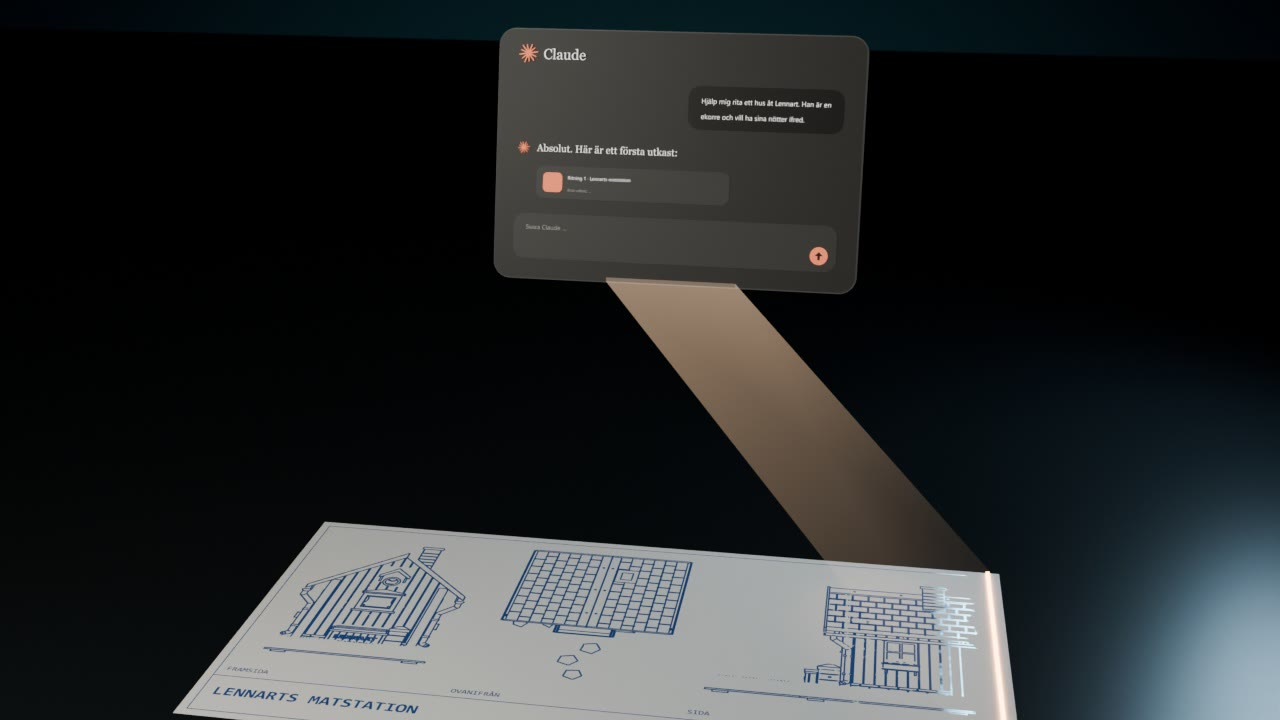
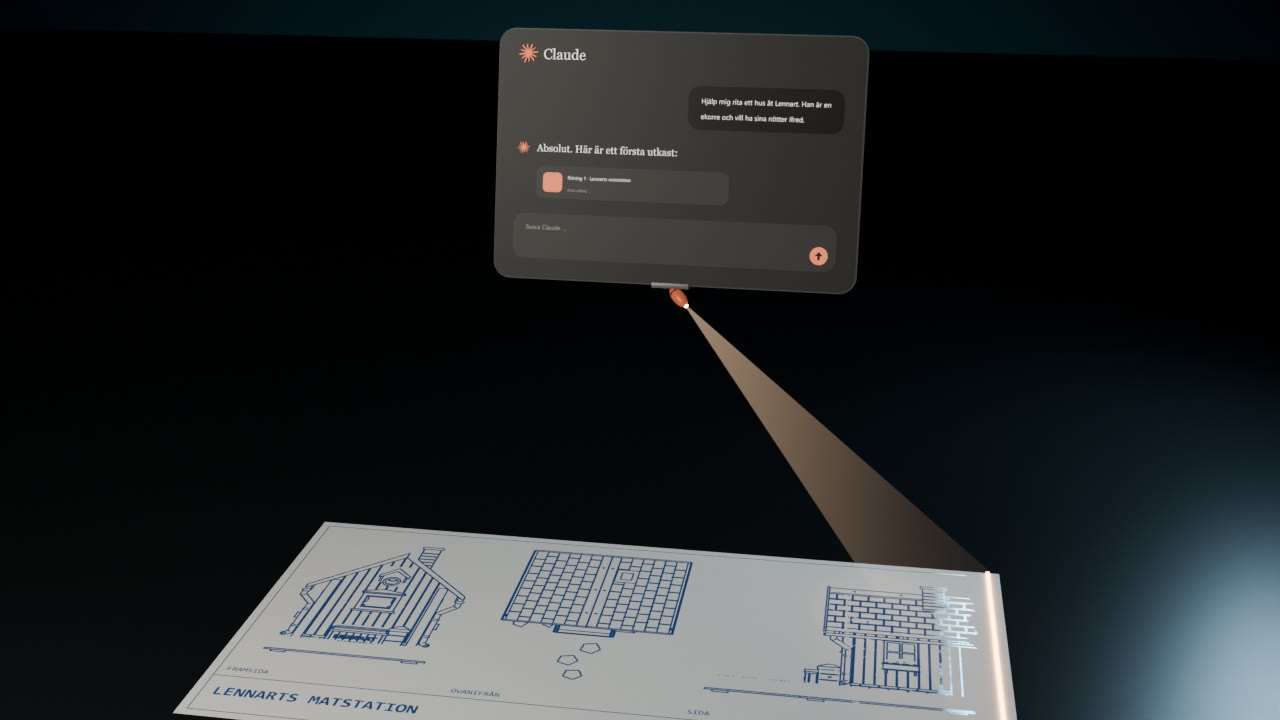
Filmen: orange munstycke projicerar ritningen i designen
Ett litet munstycke i Claudes orange fälls ut ur chattfönstrets
underkant, vrider sig efter svepet och skickar ljuset ur spetsen.
Fyra former finns att välja mellan (LENNART_MUNSTYCKE_VARIANT),
kapseln är vald. Del 3 v6, klipp 3.1-3.2 och hela filmen ombyggda.

Changed region(s): [[0.4688, 0.3667, 0.7188, 0.7944], [0.7188, 0.7028, 0.75, 0.7639]]

diff --git a/trailer/storyboard/storyboard.html b/trailer/storyboard/storyboard.html
@@ -134,7 +134,7 @@ td:first-child { color: var(--fg); white-space: nowrap; font-family: var(--mono)
 <div class="wrap">
 
 <header class="top">
-  <div class="eyebrow">Storyboard v17 · byggklippen i monteringen</div>
+  <div class="eyebrow">Storyboard v18 · munstycket i designen</div>
   <h1>Projekt <span>Lennart</span></h1>
   <p class="lead">En helt orimlig mängd teknik, redovisad med fullt allvar, för att en ekorre ska få äta sin nöt i fred.</p>
   <div class="facts">
@@ -406,7 +406,7 @@ const ACTS = [
   ['2.6','1:19','8 s','Ja','n6','cg','Andra utfallet. Fatet som skatan tömde fylls på igen, men bara för Lennart.','Lennart vid fatet. Blixt, bildkortet går upp, skylten visar VERIFIERAR och slår om till grönt: en bock och EKORRE. En grön puls går ner till fatet, och nio hasselnötter poppar upp ur det, en i taget. Lennart hoppar fram.','Helbilden, sedan en inåkning mot fatet.','Grönt sken från molnet.','Pulsen landar, nötterna poppar upp i en liten kaskad, sedan två små hopp fram.','Kameran lyfter och tittar upp förbi molnet, ut i mörkret. 3.1 fortsätter rörelsen och tittar ner mot Claude-fönstret.','"Är svaret ja finns det helt plötsligt mat."','Två stigande toner. Nötterna som poppar, en ton per nöt.','3D'],
  ]],
  ['3 · Designen', '1:27–1:47', 'Ny version, v3: Claude-fönstret är omgjort.', [
-  ['3.1','1:27','8 s','Ritningen på pappret','d1','cg','Visa var designen kom ifrån.','Ett vitt papper ligger på den mörka ytan. Ovanför svävar ett chattfönster märkt Claude. Frågan skrivs in: Hjälp mig rita ett hus åt Lennart. Han är en ekorre och vill ha sina nötter ifred. Claude svarar: Absolut. Här är ett första utkast. Fönstret lyser ner på pappret som en projektor och ritar upp stugan i tre vyer: framsida, ovanifrån och sida.','Börjar nära fönstret så att frågan går att läsa, backar sedan ut och visar pappret under.','Fönstret är scenens ljuskälla. Ljuskäglan syns svagt i mörkret.','Texten skrivs, ett svar börjar komma, linjerna ritas ut på pappret i samma takt.','Linjerna på pappret börjar lysa.','"Så jag satte mig med Claude och började bolla lite. Och det ena ledde till det andra."','Tangenter. Ett mjukt surr från projektionen. Penna mot papper.','3D. Ritningen är gjord av modellens egna linjer.'],
+  ['3.1','1:27','8 s','Ritningen på pappret','d1','cg','Visa var designen kom ifrån.','Ett vitt papper ligger på den mörka ytan. Ovanför svävar ett chattfönster märkt Claude. Frågan skrivs in: Hjälp mig rita ett hus åt Lennart. Han är en ekorre och vill ha sina nötter ifred. Claude svarar: Absolut. Här är ett första utkast. Ett litet orange munstycke fälls ut ur fönstrets underkant. Ljuset kommer ur spetsen, och munstycket vrider sig efter linjen som sveper över pappret och ritar upp stugan i tre vyer: framsida, ovanifrån och sida. När ritningen är klar fälls munstycket in igen.','Börjar nära fönstret så att frågan går att läsa, backar sedan ut och visar pappret under.','Fönstret är scenens ljuskälla. Ljuskäglan från munstycket syns svagt i mörkret.','Texten skrivs, ett svar börjar komma, linjerna ritas ut på pappret i samma takt.','Linjerna på pappret börjar lysa.','"Så jag satte mig med Claude och började bolla lite. Och det ena ledde till det andra."','Tangenter. Ett mjukt surr från projektionen. Penna mot papper.','3D. Ritningen är gjord av modellens egna linjer.'],
   ['3.2','1:35','12 s','Huset reser sig ur ritningen','d2','cg','Presentera den färdiga designen.','Fönstret försvinner uppåt. Huset reser sig ur vyn ovanifrån mitt på ritningen, först i grå lera och sedan i färg: röd stuga med vita knutar. Måtten visas. Skärmen tänds.','Kameran sjunker från ovanifrån ner till trekvartsvy medan huset reser sig.','Full studioljussättning när färgen är på plats.','Huset växer uppåt ur pappret. Färgen stiger, måtten tänds och släcks.','Snabb panorering åt höger med rörelseoskärpa. Klippet göms i oskärpan och landar på den blå ytan i 4.1.','"Först en skiss, sen en ritning, och sen hade vi plötsligt en hel 3D-modell, redo för utskrift. En liten röd stuga med vita knutar, som jag har Claude att tacka för."','En stigande ton. Ett klingande ljud när skärmen tänds.','3D från GLB'],
  ]],
  ['4 · Inköpen', '1:47–2:03', 'Ny version, v4: blå bakgrund, en del per ord i din inspelning.', [
@@ -435,7 +435,7 @@ const FILM = {
  "0.1": "Ny version, v5: skärmen har synliga pixlar.", "0.2": "Ur öppning v2, godkänd bild. Din provinspelning som röst.", "0.3": "Ny version, v5: magasinet fullt, tilt ner i slutet.", "0.4": "Ny version, v5: övergångar in och ut.", "0.5": "Ny version, v5: pixlar, punkter på pipen, inåkning i pixlarna.", "0.6": "Ny version: titeln i skärmens pixelrutnät.",
  "1.1": "Ur del 1 v1, klippt efter din inspelning.", "1.2": "Ur del 1 v1, klippt efter din inspelning.", "1.3": "Ur del 1 v3. Namnskylten kommer tidigare och ligger kvar in i nästa klipp.", "1.4": "Ur del 1. Ny övergång i slutet: snabb panorering åt höger, dit Lennart tittar.",
  "2.1": "Ny version, v7: landar ur panoreringen från 1.4.", "2.2": "Ur v3, oförändrad.", "2.3": "Ur v3, oförändrad.", "2.4": "Ur v3, oförändrad.", "2.5": "Ny version, v5: nej-signalen slår ner i fatet, som snurrar ut med ett porslinsklirr.", "2.6": "Ny version, v6: nötterna vilar, kameran lyfter i slutet.",
- "6.1": "Ny version, v2: byggklippen i hörnen, i takt med musiken (platshållare).", "6.2": "Ny version, v2: byggklippen går när kameran åker nära (platshållare).", "6.3": "Första renderingen, v1.", "3.1": "Ny version, v5: börjar uppifrån mörkret.", "3.2": "Ny version, v4: snabb panorering i slutet.",
+ "6.1": "Ny version, v2: byggklippen i hörnen, i takt med musiken (platshållare).", "6.2": "Ny version, v2: byggklippen går när kameran åker nära (platshållare).", "6.3": "Första renderingen, v1.", "3.1": "Ny version, v6: ett orange munstycke under fönstret projicerar ritningen.", "3.2": "Ny version, v4: snabb panorering i slutet.",
  "4.1": "Ny version, v6: konturer och allt det andra som köptes längs kanterna.", "4.2": "Ny version, v6: fem filamentfärger, in i den röda rullens nav i slutet.", "5.2": "Platshållare: utskriftsväggen med dina tre stillbilder.", "5.3": "Platshållare: utskriftsväggen med dina tre stillbilder."
 };
 // Scener som väntar på riktigt material (timelapse-klipp, film av huset). De får vattenstämpeln VÄNTAR PÅ MATERIAL här och i filmen.

diff --git a/trailer/film/akt_design.py b/trailer/film/akt_design.py
@@ -176,6 +176,50 @@ bme = bpy.data.meshes.new('fana'); bme.from_pydata(src + dst, [], [(i, (i + 1) %
 bpy.ops.mesh.primitive_cube_add(size=1); SCAN = bpy.context.active_object; SCAN.scale = (0.005, PH, 0.0006); SCAN_M = lys('svep', (1.0, 0.45, 0.2), 9.0); SCAN.data.materials.append(SCAN_M); SCAN.visible_shadow = False
 sd = bpy.data.lights.new('proj', 'SPOT'); sd.spot_size = math.radians(40); sd.spot_blend = 0.8; sd.color = (1.0, 0.6, 0.38); sd.shadow_soft_size = 0.02; SPOT = link(bpy.data.objects.new('proj', sd)); SPOT.location = WM @ Vector((0, -0.03, -WH / 2))
 SPOT.rotation_euler = (PC - SPOT.location).to_track_quat('-Z', 'Y').to_euler()
+# munstycket: ett litet orange munstycke fälls ut ur chattrutans underkant strax innan projektionen och vrider sig efter svepet, som ett skrivarhuvud. Ljuset kommer ur spetsen.
+NOZ_ON = os.environ.get('LENNART_MUNSTYCKE', '1') == '1'
+# Varianter (LENNART_MUNSTYCKE_VARIANT): A kon, B lins, C skrivarhuvud, D kapsel (vald). A-C är gråa, D har Claudes orange.
+VAR = os.environ.get('LENNART_MUNSTYCKE_VARIANT', 'D')
+NM = mat('munstycke', (0.3, 0.3, 0.31), 0.38); P_(NM).inputs['Metallic'].default_value = 0.3                  # grå, matt metall
+NR = mat('munstycke_led', (0.13, 0.13, 0.135), 0.45); P_(NR).inputs['Metallic'].default_value = 0.2           # mörkare grå led
+NL_ = mat('munstycke_ljus', (0.55, 0.55, 0.56), 0.35); P_(NL_).inputs['Metallic'].default_value = 0.2        # ljusgrå
+NOR = mat('munstycke_orange', C_OR, 0.32, 0.3, C_OR, 0.35)                                                   # Claudes orange, lyser svagt som knappen
+NOR2 = mat('munstycke_orange_mork', tuple(c * 0.45 for c in C_OR), 0.4)
+G_NOZ = 1.6   # G_NOZ: hela munstyckets storlek
+TIPM = lys('munstycke_spets', (1.0, 0.55, 0.3), 0.0)
+def del_(o, m, parent, loc, rot=(0, 0, 0)): o.data.materials.append(m); o.parent = parent; o.location = loc; o.rotation_euler = rot; [setattr(p, 'use_smooth', True) for p in o.data.polygons]; return o
+FASTE = link(bpy.data.objects.new('munstycke_faste', None)); child(FASTE, 0, -WH / 2 + 0.002, 0)          # fästet sitter i rutans underkant
+bpy.ops.mesh.primitive_cube_add(size=1); pl = bpy.context.active_object; pl.scale = (0.036, 0.016, 0.005); bv = pl.modifiers.new('b', 'BEVEL'); bv.width = 0.002; bv.segments = 4; del_(pl, NM, FASTE, (0, 0, -0.0025)); WOBJ.append(pl)
+NOZ = link(bpy.data.objects.new('munstycke', None)); NOZ.parent = FASTE; NOZ.location = (0, 0, -0.005); WOBJ.append(NOZ)   # leden: allt under den vrids mot svepet
+def bit(o, m, loc, rot=(0, 0, 0)): WOBJ.append(del_(o, m, NOZ, loc, rot)); return o
+def ny(): return bpy.context.active_object
+if VAR == 'A':     # kon: en enkel avsmalnande kon under en kula
+    NL = 0.032
+    bpy.ops.mesh.primitive_uv_sphere_add(segments=32, ring_count=16, radius=0.006); bit(ny(), NR, (0, 0, 0))
+    bpy.ops.mesh.primitive_cone_add(vertices=48, radius1=0.0075, radius2=0.0016, depth=0.028); bit(ny(), NM, (0, 0, -0.017), (math.pi, 0, 0))
+    bpy.ops.mesh.primitive_cylinder_add(vertices=48, radius=0.0078, depth=0.0016); bit(ny(), NL_, (0, 0, -0.0035))
+    bpy.ops.mesh.primitive_cylinder_add(vertices=32, radius=0.0017, depth=0.002); TIP = bit(ny(), TIPM, (0, 0, -NL + 0.0012))
+elif VAR == 'B':   # lins: en kort tub med en lysande lins i änden, som en liten projektor
+    NL = 0.024
+    bpy.ops.mesh.primitive_uv_sphere_add(segments=32, ring_count=16, radius=0.0065); bit(ny(), NR, (0, 0, 0))
+    bpy.ops.mesh.primitive_cylinder_add(vertices=48, radius=0.0082, depth=0.018); bit(ny(), NM, (0, 0, -0.012))
+    bpy.ops.mesh.primitive_torus_add(major_radius=0.0078, minor_radius=0.0016, major_segments=48, minor_segments=12); bit(ny(), NL_, (0, 0, -0.0215))
+    bpy.ops.mesh.primitive_cylinder_add(vertices=48, radius=0.0062, depth=0.0012); TIP = bit(ny(), TIPM, (0, 0, -NL + 0.0016))
+elif VAR == 'C':   # skrivarhuvud: ett litet rundat block med en kort spets
+    NL = 0.03
+    bpy.ops.mesh.primitive_cylinder_add(vertices=32, radius=0.0045, depth=0.02, rotation=(0, math.pi / 2, 0)); bit(ny(), NR, (0, 0, 0), (0, math.pi / 2, 0))
+    bpy.ops.mesh.primitive_cube_add(size=1); o = ny(); o.scale = (0.018, 0.012, 0.016); m_ = o.modifiers.new('b', 'BEVEL'); m_.width = 0.003; m_.segments = 5; bit(o, NM, (0, 0, -0.011))
+    bpy.ops.mesh.primitive_cube_add(size=1); o = ny(); o.scale = (0.0185, 0.0125, 0.0018); m_ = o.modifiers.new('b', 'BEVEL'); m_.width = 0.0008; m_.segments = 3; bit(o, NL_, (0, 0, -0.0135))
+    bpy.ops.mesh.primitive_cone_add(vertices=48, radius1=0.0042, radius2=0.0014, depth=0.0095); bit(ny(), NL_, (0, 0, -0.0238), (math.pi, 0, 0))
+    bpy.ops.mesh.primitive_cylinder_add(vertices=32, radius=0.0015, depth=0.002); TIP = bit(ny(), TIPM, (0, 0, -NL + 0.0012))
+else:              # kapsel: en avlång, mjuk droppe utan synlig led
+    NL = 0.027
+    bpy.ops.mesh.primitive_uv_sphere_add(segments=48, ring_count=24, radius=0.0062); o = ny(); o.scale = (1, 1, 2.1); bit(o, NOR, (0, 0, -0.0135))
+    bpy.ops.mesh.primitive_cylinder_add(vertices=48, radius=0.0064, depth=0.0012); bit(ny(), NOR2, (0, 0, -0.008))
+    bpy.ops.mesh.primitive_cylinder_add(vertices=32, radius=0.0019, depth=0.0016); TIP = bit(ny(), TIPM, (0, 0, -NL + 0.0007))
+for o in [pl, NOZ, FASTE] + [c for c in NOZ.children]: o.visible_shadow = True
+if not NOZ_ON:
+    for o in [FASTE, pl, NOZ] + list(NOZ.children): o.hide_render = True; WOBJ.remove(o) if o in WOBJ else None
 
 bpy.ops.mesh.primitive_plane_add(size=10, location=(0, 0, GROUND)); bpy.context.active_object.data.materials.append(mat('golv', (0.016, 0.02, 0.022), 0.34))
 def light(loc, target, power, size, col):
@@ -208,6 +252,15 @@ def state(t):
     for i, (dx, dy) in enumerate([(-1, -1), (1, -1), (1, 1), (-1, 1)]): bme.vertices[4 + i].co = (sx + dx * 0.004, PC.y + dy * PH / 2, PC.z + 0.002)
     bme.update(); SCAN.location = (sx, PC.y, PC.z + 0.0022)
     proj = sm(t, 5.9, 6.2) * (1 - sm(t, 9.3, 9.6)); PRJ.outputs[0].default_value = proj; BEAM.hide_render = proj < 0.01; SCAN.hide_render = proj < 0.01; sd.energy = 2.5 * proj
+    if NOZ_ON:   # munstycket fälls ut 5,3-5,9 (med en liten översvängning), siktar på svepet och fälls in igen 9,4-9,9. Fanan och spotten utgår från spetsen.
+        u = min(1.0, max(0.0, (t - 5.3) / 0.6)); ut = (1 + 2.2 * (u - 1) ** 3 + 1.2 * (u - 1) ** 2 if u > 0 else 0.0) * (1 - sm(t, 9.4, 9.9))
+        FASTE.scale = (G_NOZ, G_NOZ, G_NOZ * max(ut, 0.001)); FASTE.hide_render = ut < 0.01
+        for o in [pl] + list(NOZ.children): o.hide_render = ut < 0.01 or away > 0.99
+        bpy.context.view_layer.update(); j = NOZ.matrix_world.translation; d = (Vector((sx, PC.y, PC.z)) - j).normalized() if proj > 0.001 else (Vector((PC.x, PC.y, PC.z)) - j).normalized()
+        dl = (NOZ.parent.matrix_world.to_3x3().normalized().inverted() @ d); NOZ.rotation_euler = dl.to_track_quat('-Z', 'X').to_euler()
+        bpy.context.view_layer.update(); tip = NOZ.matrix_world @ Vector((0, 0, -NL)); P_(TIPM).inputs['Emission Strength'].default_value = 0.6 * ut + 14 * proj
+        for i, (dx, dy) in enumerate([(-1, -1), (1, -1), (1, 1), (-1, 1)]): bme.vertices[i].co = tip + Vector((dx * 0.0015, dy * 0.0015, 0))
+        bme.update(); SPOT.location = tip
     SPOT.rotation_euler = (Vector((sx, PC.y, PC.z)) - SPOT.location).to_track_quat('-Z', 'Y').to_euler()
     DRAW.outputs[0].default_value = -0.02 + 1.15 * sm(t, 6.0, 9.4) ** 0.9 if t > 6.0 else -0.1; GLOW.outputs[0].default_value = 0.5 * sm(t, 9.2, 9.9) * (1 - sm(t, 11.5, 13.5))
     KEY.energy = 46 * (0.45 + 0.55 * sm(t, 9.6, 12.0)); RIM.energy = 22 * (0.5 + 0.5 * sm(t, 9.6, 12.0))

diff --git a/trailer/film/LAGE.md b/trailer/film/LAGE.md
@@ -20,7 +20,7 @@ Senast uppdaterad 2026-11-16. Skriven för att arbetet ska kunna fortsätta på 
 | 0 Öppningen | Skärmen, gluggen, nötens väg, 48 delar, VERIFIERAR, titeln | Klar. Fullt nötmagasin, pixlar på skärmen, punkterna tänds på pipen. |
 | 1 Lennart | Riktiga mobilklipp | Klar. Klipp 1.4 slutar med en snabb panorering åt höger. |
 | 2 Problemet och planen | Fat, skata, kamera i sladd, moln, ja och nej | Klar. Landar ur panoreringen från 1.4, fatet snurrar vid nej, nötterna vilar på riktigt. |
-| 3 Designen | Claude-fönstret ritar huset, huset reser sig | Klar |
+| 3 Designen | Claude-fönstret ritar huset, huset reser sig | Klar. Ett litet orange munstycke fälls ut under fönstret och projicerar ritningen. |
 | 4 Inköpen | Komponenterna på blå yta, filamentet | Klar. Allt annat som köptes landar längs kanterna, konturer visar var huvuddelarna ska ligga, fem filamentfärger. |
 | 5 Utskriften | Lager för lager (5.1) och utskriftsväggen (5.2–5.3) | 5.1 är en stillbild ur 3D. Väggen visar platshållare tills de riktiga timelapse-klippen finns. |
 | 6 Monteringen | Sprängskiss, delarna hittar hem | Fyra byggklipp svävar bakom huset i 6.1–6.2, än så länge platshållare. Elektroniken från inköpen saknas. |
@@ -66,5 +66,6 @@ Scener som väntar på riktigt material står i listan `VANTAR` i `storyboard/st
 - **Panoreringen 1.4 → 2.1:** `akt_plan.py` vrider kameran åt vänster i början av 2.1 (`PAN_GRAD`, `PAN_TID`) och `verktyg/panorering_14.py` lägger på rörelseoskärpan och bygger de sista åtta rutorna i 1.4. Ändras början av 2.1 ska skriptet köras om.
 - **Inköpen:** sakerna i kanterna av 4.1 och de fem filamentfärgerna kommer från kvittot och Marcus egen lista. Alla delar är generiska modeller. Panoreringen in från 3.2 läggs på de första sju rutorna med `verktyg/panorering_41.py` efter renderingen.
 - **Byggklippen i monteringen:** `verktyg/byggklipp_6.py` lägger fyra klipp i vita ramar bakom huset i 6.1–6.2. De poppar upp och krymper bort på musikens slag (ca 99 slag/min) och är borta när kameran åker nära, ca 9 s in. Klippen görs lite mjuka, mörkare, kallare och mindre mättade (`KLIPP_VF`), så att huset är skarpast i bilden. Huset hålls överst med en mask som `akt_montering.py` renderar i maskläge (`LENNART_MASK=1`, bara alfa, går snabbt). Klippen läses från en mapp med `1.mp4`–`4.mp4`, utan ljud. När de riktiga klippen finns räcker det att köra skriptet igen, utan att rendera om huset. Platshållarna ligger lokalt i `byggklipp/platshallare/` och committas inte.
+- **Munstycket i designen:** `akt_design.py` fäller ut ett litet munstycke i Claudes orange ur chattfönstrets underkant ca 5,3 s in. Det vrider sig efter linjen som sveper över pappret, ljuset kommer ur spetsen, och det fälls in igen 9,4–9,9 s. Formen väljs med `LENNART_MUNSTYCKE_VARIANT` (A kon, B lins, C skrivarhuvud, D kapsel, D är vald) och `LENNART_MUNSTYCKE=0` stänger av det.
 - **Nötterna:** platserna räknas fram mot modellens riktiga form (`verktyg/notmagasin.py`, `verktyg/notfat.py`).
-- **Bildrutor:** när bara en del av en scen ändras renderas bara de bildrutorna om. Bildrutorna finns inte i repot, så ta fram de övriga ur scenens mp4 med `ffmpeg -i "Lennart - del 3 designen v5.mp4" ut/%04d.jpg` först.
+- **Bildrutor:** när bara en del av en scen ändras renderas bara de bildrutorna om. Bildrutorna finns inte i repot, så ta fram de övriga ur scenens mp4 med `ffmpeg -i "Lennart - del 3 designen v6.mp4" ut/%04d.jpg` först.

diff --git a/TOKENS.md b/TOKENS.md
@@ -19,7 +19,7 @@ Metoden anger hur siffran togs fram: *exakt* (avläst i verktyget) eller *uppska
 | 2026-11-15 (kväll, livebild) | Publik livebild på lennart.cam (bilder bara när någon tittar), adminvy bakom inloggning med inställningar och av-knapp, Pi-appen skickar 640 × 360 i 2 bilder/s. Testat lokalt och mot riktiga lennart.cam. | ca 5–10 miljoner in, ca 0,08 miljoner ut [osäkert] | Uppskattat: ca 40 modellanrop × 130 000–240 000 tokens kontext. Ut uppskattat ur mängden skriven kod och text. | 0 | Ingen lokal modell användes |
 | 2026-11-15 (kväll, admin) | Felsökning av inloggningen i adminvyn: tolerans för mellanslag och citattecken, fingeravtryck i loggen, test i riktig webbläsare, besökarens adress bakom Cloudflare | ca 3–6 miljoner in, ca 0,03 miljoner ut [osäkert] | Uppskattat: ca 20 modellanrop × 150 000–260 000 tokens kontext | 0 | Ingen lokal modell användes |
 | 2026-11-15 (kväll, rotation och servon) | Kamerans rotation och servostyrning i adminvyn: kommandon och inställningar via Pi:ns väntande anrop, egen drivrutin för PCA9685, kopplingsguide för servona, rättning av dolda bilder i stilmallen. Testat med låtsashårdvara och i Chromium. | ca 6–12 miljoner in, ca 0,1 miljoner ut [osäkert] | Uppskattat: ca 40 modellanrop × 160 000–280 000 tokens kontext. Ut uppskattat ur mängden skriven kod och text. | 0 | Ingen lokal modell användes |
-| 2026-11-14 – 2026-11-16 | Trailern, Claude Code i Claude-appen på Windows (lokal session): storyboard, alla 3D-scener i Blender, Marcus röst bearbetad och lagd mot klippen, musik och ljudeffekter, övergångar, flytt av filmprojektet till repot, övergången från Lennart till planen, vattenstämpeln, inköpen, servonas tajming och byggklippen i monteringen | ca 287,9 miljoner in, varav 285,3 miljoner cacheläsning och 2,6 miljoner cacheskrivning, och 1,15 miljoner ut | Exakt ur sessionsloggen fram till 2026-11-16 17.05 UTC: summan av `usage`-fälten för 929 modellanrop (Claude Fable 5.2 och Claude Opus 5.5), räknat en gång per svar. Arbetet efter den tidpunkten ingår inte. | ej räknat | Whisper medium kördes lokalt för att skriva ut rösten (ca 2,5 minuter ljud). Whisper räknar inte tokens på samma sätt, och antalet loggades inte. |
+| 2026-11-14 – 2026-11-16 | Trailern, Claude Code i Claude-appen på Windows (lokal session): storyboard, alla 3D-scener i Blender, Marcus röst bearbetad och lagd mot klippen, musik och ljudeffekter, övergångar, flytt av filmprojektet till repot, övergången från Lennart till planen, vattenstämpeln, inköpen, servonas tajming, byggklippen i monteringen och munstycket i designen | ca 299,8 miljoner in, varav 297,0 miljoner cacheläsning och 2,8 miljoner cacheskrivning, och 1,19 miljoner ut | Exakt ur sessionsloggen fram till 2026-11-16 19.22 UTC: summan av `usage`-fälten för 994 modellanrop (Claude Fable 5.2 och Claude Opus 5.5), räknat en gång per svar. Arbetet efter den tidpunkten ingår inte. | ej räknat | Whisper medium kördes lokalt för att skriva ut rösten (ca 2,5 minuter ljud). Whisper räknar inte tokens på samma sätt, och antalet loggades inte. |
 | 2026-11-15 | Kort Claude Code-session i samma mapp: försök att snygga till en timelapse av utskriften med Higgsfield [verifiera vad som blev gjort] | ca 7,0 miljoner in, varav 6,9 miljoner cacheläsning, och 0,03 miljoner ut | Exakt ur sessionsloggen: summan av `usage`-fälten för 50 modellanrop (Claude Opus 5.5) | 0 | Ingen lokal modell användes |
 
 ## Utanför tokenräkningen
